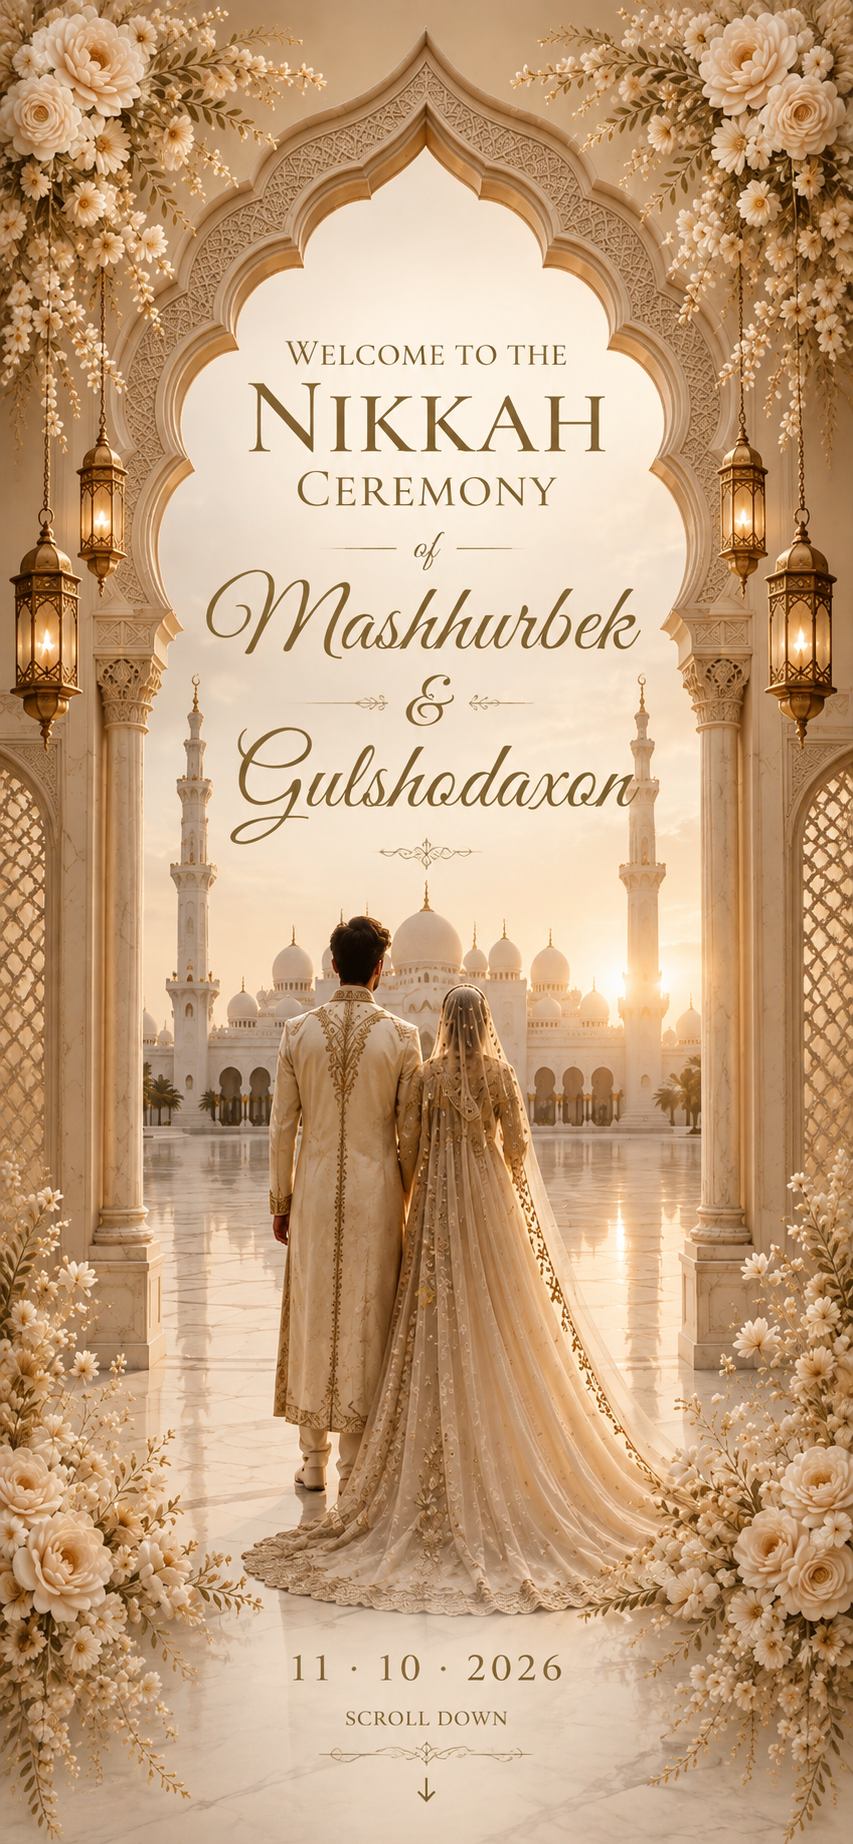
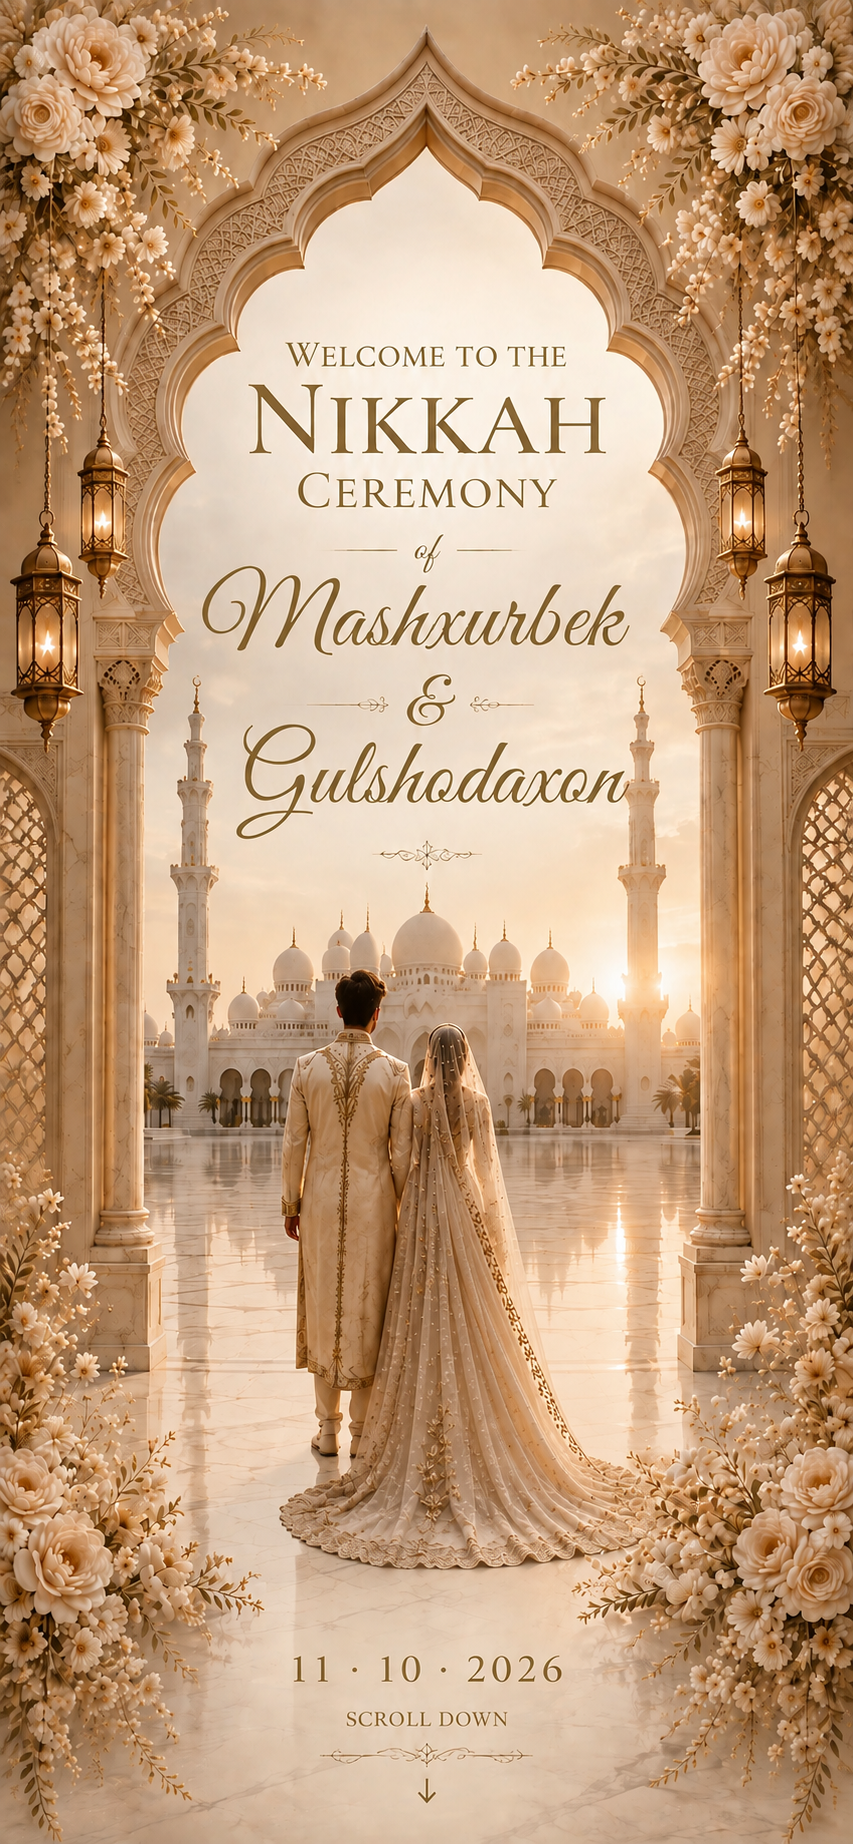
Add premium opening animation and enlarge invitation

diff --git a/style.css b/style.css
@@ -776,7 +776,7 @@ body.website-open .opening {
 /* cards */
 
 .timeline-card {
-    padding: 20px 22px;
+    padding: 40px 42%;
 
     background: rgba(255,255,255,.22);
 
@@ -3042,4 +3042,146 @@ body.website-open .opening {
         width: 94vw;
         height: 250px;
     }
+}
+
+/* =====================================================
+   PREMIUM OPENING ENTRANCE ANIMATION
+===================================================== */
+
+/* Sahifa ochilganda konvert uzoqdan kelib, yumshoq paydo bo'ladi */
+.envelope {
+    opacity: 0;
+    transform:
+        translateY(35px)
+        scale(.82)
+        rotateX(8deg);
+
+    animation:
+        envelopeEntrance 1.5s
+        cubic-bezier(.16,.84,.25,1)
+        .25s forwards;
+}
+
+/* Seal ham alohida yumshoq paydo bo'ladi */
+.seal {
+    opacity: 0;
+    animation:
+        sealEntrance 1s
+        cubic-bezier(.16,.84,.25,1)
+        1s forwards;
+}
+
+/* Pastdagi TAP TO OPEN yozuvi */
+.open-text {
+    opacity: 0;
+    animation:
+        openTextEntrance 1s
+        ease
+        1.35s forwards,
+        breathe 2.2s ease-in-out 2.35s infinite;
+}
+
+
+/* Envelope entrance */
+@keyframes envelopeEntrance {
+
+    0% {
+        opacity: 0;
+        transform:
+            translateY(35px)
+            scale(.82)
+            rotateX(8deg);
+        filter:
+            drop-shadow(
+                0 10px 12px
+                rgba(86,65,38,.08)
+            );
+    }
+
+    60% {
+        opacity: 1;
+        transform:
+            translateY(-5px)
+            scale(1.025)
+            rotateX(0deg);
+    }
+
+    100% {
+        opacity: 1;
+        transform:
+            translateY(0)
+            scale(1)
+            rotateX(0deg);
+        filter:
+            drop-shadow(
+                0 30px 30px
+                var(--shadow)
+            );
+    }
+}
+
+
+/* Seal entrance */
+@keyframes sealEntrance {
+
+    0% {
+        opacity: 0;
+        transform:
+            translate(-50%, -50%)
+            translateZ(100px)
+            scale(.65);
+    }
+
+    70% {
+        opacity: 1;
+        transform:
+            translate(-50%, -50%)
+            translateZ(100px)
+            scale(1.08);
+    }
+
+    100% {
+        opacity: 1;
+        transform:
+            translate(-50%, -50%)
+            translateZ(100px)
+            scale(1);
+    }
+}
+
+
+/* Tap to open */
+@keyframes openTextEntrance {
+
+    0% {
+        opacity: 0;
+        transform: translateY(12px);
+    }
+
+    100% {
+        opacity: .8;
+        transform: translateY(0);
+    }
+}
+
+
+/* =====================================================
+   ENVELOPE — SLIGHTLY LARGER
+===================================================== */
+
+.envelope {
+    width: min(94vw, 560px);
+    height: min(132vw, 750px);
+}
+
+
+/* MOBILE */
+@media (max-width: 600px) {
+
+    .envelope {
+        width: 94vw;
+        height: 132vw;
+        max-height: 82vh;
+    }
+
 }

diff --git a/index.html b/index.html
@@ -9,7 +9,7 @@
         content="width=device-width, initial-scale=1.0"
     >
 
-    <title>Mashhurbek & Gulshodaxon</title>
+    <title>Mashxurbek & Gulshodaxon</title>
 
     <link rel="stylesheet" href="style.css">
 </head>
@@ -86,7 +86,7 @@
     <section class="hero-page">
     <img
         src="assets/hero.png"
-        alt="Mashhurbek va Gulshodaxon"
+        alt="Mashxurbek va Gulshodaxon"
         class="hero-background"
     >
 </section>
@@ -107,7 +107,7 @@
     </p>
 
     <h2 class="date-title">
-        The Date
+        Bu kunga tayyormisiz?
     </h2>
 
     <p class="date-subtitle">
@@ -118,7 +118,7 @@
 
         <div class="date-number">
             11
-            <span>kun</span>
+            <span>Oktabr</span>
         </div>
 
         <div class="date-divider">
@@ -128,7 +128,7 @@
         </div>
 
         <div class="date-month">
-            Oktabr
+            Yakshanba
             <span>2026</span>
         </div>
 
@@ -180,7 +180,7 @@
                 </p>
 
                 <h2>
-                    Mashhurbek
+                    Mashxurbek
                 </h2>
 
                 
@@ -303,7 +303,7 @@
         </p>
 
         <h2>
-            The Celebration Begins
+            Quvonchli kunimizga qancha vaqt qoldi?
         </h2>
 
         <div class="countdown">
@@ -401,7 +401,7 @@
         </p>
 
         <h2>
-            Mashhurbek
+            Mashxurbek
             <span>&amp;</span>
             Gulshodaxon
         </h2>
